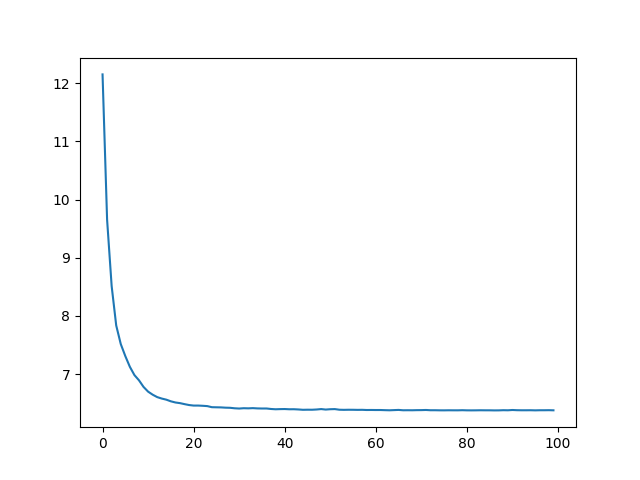
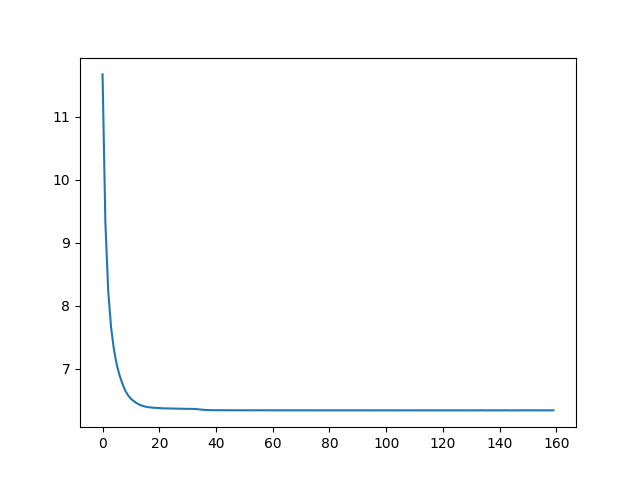
update

diff --git a/AutoEncoder/train.py b/AutoEncoder/train.py
@@ -1,6 +1,7 @@
 from models import Naive_net
 import numpy as np
 import torch as T
+from models import Encoder
 def train(features,
           labels,
           lr:float,
@@ -8,11 +9,13 @@ def train(features,
           fc2_dims:int,
           fc3_dims:int,
           fc4_dims:int,
+          latent_dim:int,
+          encoder_model_path,
           n_epochs : int = 100,
           batch_size : int = 32,
           ):
-    T.cuda.empty_cache()
-    T.backends.cudnn.benchmark = True
+
+
     net = Naive_net(lr=lr,
                     input_shape=features.shape[-1],
                     fc1_dims=fc1_dims,
@@ -21,9 +24,24 @@ def train(features,
                     fc4_dims=fc4_dims,
                     n_output=labels.shape[-1])
 
-    features = T.tensor(features, device=net.device, dtype=T.float32)  # Shape: (968, 1)
+    # features = T.tensor(features, device=net.device, dtype=T.float32)/ # Shape: (968, 1)
     labels = T.tensor(labels, device=net.device, dtype=T.float32)
-    print('Features shape : ', features.shape,)
+    encoder = Encoder(latent_dim=latent_dim)
+    encoder.load_model(encoder_model_path, map_location=T.device('cuda'))
+
+    with T.no_grad():  # Add this to prevent gradient computation for encoder
+        images = T.FloatTensor(features.astype(np.float32) / 255.0)
+        if len(images.shape) == 3:
+            images = images.unsqueeze(1)
+        images = images.to(encoder.device)
+        print(f'images shape in training : {images.shape}')
+
+        # Get encoded features
+        encoded_features = encoder(images)
+        # Detach to prevent backward through encoder
+        encoded_features = encoded_features.detach()
+
+    print('Features shape : ', encoded_features.shape, '\n')
     print('labels shape : ', labels.shape, '\n')
 
     losses = []
@@ -31,7 +49,7 @@ def train(features,
             total_loss = 0
             # Create data loader
 
-            dataset = T.utils.data.TensorDataset(features, labels)
+            dataset = T.utils.data.TensorDataset(encoded_features, labels)
             dataloader = T.utils.data.DataLoader(dataset,
                                                  batch_size=batch_size,
                                                  shuffle=True)

diff --git a/Naive approach/get_features.py b/Naive approach/get_features.py
@@ -4,7 +4,8 @@ from engine import Engine
 from sklearn.model_selection import train_test_split
 
 # LOAD images from folders
-def extract_features(_parts,
+def extract_features(v_parts,
+                     h_parts,
                      _nb_features,
                      _root_folder,
                      _target_folder,
@@ -18,7 +19,8 @@ def extract_features(_parts,
         images, images_dict = load_images_from_folders(root_folder= _root_folder,
                                                        output_folder= _target_folder,
                                                        target_size=_target_size,
-                                                       save_files=_save_file)
+                                                       save_files=_save_file,
+                                                       )
     else:
         images, images_dict = load_images_from_folders2(root_folder= _target_folder,
                                                    )
@@ -29,22 +31,22 @@ def extract_features(_parts,
                     target_size=_target_size)
 
     labels =engine.labeling(images, images_dict)
-
-    splitted_images = engine.split_images(images, _parts)
+    print(f'labels {labels.shape}')
+    splitted_images = engine.split_images(images,v_parts,h_parts)
 
     nb_imgs = 3
     if display:
-        display_images(splitted_images[:nb_imgs*9],rows=len(images[:nb_imgs])*3,cols=_parts)
+        display_images(splitted_images[:nb_imgs*v_parts*h_parts],rows=v_parts*3,cols=h_parts)
 
     hists = engine.compute_hist(splitted_images, nb_features=_nb_features)
-    features = engine.get_features_from_hists(hists, parts=_parts)
+    features = engine.get_features_from_hists(hists,v_parts,h_parts)
 
     normalized_features = normalize_features(features)
 
     X_train, X_test, y_train, y_test = train_test_split(
         normalized_features, labels,
+        random_state=42,
         test_size=0.2,
-         random_state=42,
         shuffle=True
     )
     return X_train, X_test, y_train, y_test

diff --git a/Naive approach/models.py b/Naive approach/models.py
@@ -2,6 +2,7 @@ import torch as T
 import torch.nn as nn
 import torch.nn.functional as F
 import numpy as np
+import os
 def weights_init_(m):
     if isinstance(m, nn.Linear):
         T.nn.init.xavier_uniform_(m.weight, gain=1)
@@ -14,15 +15,16 @@ class Naive_net(nn.Module):
                  fc1_dims,
                  fc2_dims,
                  fc3_dims,
+                 fc4_dims,
                  n_output):
         super(Naive_net, self).__init__()
 
         self.fc1 = nn.Linear(input_shape, fc1_dims)
         self.fc2 = nn.Linear(fc1_dims, fc2_dims)
         self.fc3 = nn.Linear(fc2_dims, fc2_dims)
-        self.fc4 = nn.Linear(fc2_dims, fc2_dims)
-        self.fc5 = nn.Linear(fc2_dims, fc3_dims)
-        self.fc6 = nn.Linear(fc3_dims, n_output)
+        self.fc4 = nn.Linear(fc2_dims, fc3_dims)
+        self.fc5 = nn.Linear(fc3_dims, fc4_dims)
+        self.fc6 = nn.Linear(fc4_dims, n_output)
 
         self.dropout1 = nn.Dropout(0.2)
         self.dropout2 = nn.Dropout(0.2)
@@ -48,10 +50,10 @@ class Naive_net(nn.Module):
 
         x = F.relu(self.fc1(x))
         x = F.relu(self.fc2(x))
-        x = self.dropout1(x)
-        x = F.relu(self.fc3(x))
+        # x = self.dropout1(x)
+        # x = F.relu(self.fc3(x))
         x = F.relu(self.fc4(x))
-        x = self.dropout2(x)
+        # x = self.dropout2(x)
         x = F.relu(self.fc5(x))
         x = F.softmax(self.fc6(x), dim=-1)
 
@@ -63,4 +65,13 @@ class Naive_net(nn.Module):
     def get_lr(self):
         return self.scheduler.get_last_lr()[0]
 
+    def save_model(self, PATH):
+        os.makedirs(os.path.dirname(PATH), exist_ok=True)
+
+        T.save(self.state_dict(), PATH)
+
+    def load_model(self, PATH, map_location=None):
+        if map_location is None:
+            map_location = self.device  # Use the model's current device
+        self.load_state_dict(T.load(PATH, map_location=map_location, weights_only=True))
 

diff --git a/AutoEncoder/utils.py b/AutoEncoder/utils.py
@@ -1,5 +1,6 @@
 import os
 import numpy as np
+import pandas as pd
 from PIL import Image
 import matplotlib.pyplot as plt
 from sklearn.preprocessing import StandardScaler
@@ -17,7 +18,7 @@ def load_images_from_folder(folder_path):
             except IOError:
                 print(f"Error loading image: {filename}")
     return images
-def load_images_from_folders(root_folder,
+def load_images_resize(root_folder,
                              output_folder,
                              save_files= False,
                              target_size=(128, 128)):
@@ -57,13 +58,13 @@ def load_images_from_folders(root_folder,
 
     return images, images_dict
 
-def load_images_from_folders2(root_folder,
+def load_images(target_folder,
 
                              ):
     images = []
     images_dict = {}
-    print(f'Loading from folders ... {root_folder}')
-    for root, dirs, files in os.walk(root_folder):
+    print(f'Loading from folders ... {target_folder}')
+    for root, dirs, files in os.walk(target_folder):
         label = os.path.basename(root)
         if label and label not in images_dict:  # Only add non-empty labels
             print(f'Procesing {label}')
@@ -129,3 +130,18 @@ def normalize_features(features):
     normalizer = StandardScaler()
     normalized_features = normalizer.fit_transform(features)
     return normalized_features
+
+def labeling(images, images_dict):
+    # LABELING
+    labels = np.zeros(len(images))
+    idx = 0
+    print('Labeling ....')
+    for y, key in enumerate(images_dict.keys()):
+
+        print(f'key : {key} : {len(images_dict[key])}')
+
+        labels[idx:idx + len(images_dict[key])] = y
+        idx += len(images_dict[key])
+
+    labels = np.array(pd.get_dummies(labels,dtype=np.uint8))
+    return labels

diff --git a/Naive approach/engine.py b/Naive approach/engine.py
@@ -11,26 +11,26 @@ class Engine():
         self.output_folder = output_folder
         self.target_size = target_size
 
-    def split_image(self, image, parts=2):
+    def split_image(self, image, v_parts, h_parts):
         images = []
         # Get height and width of the image
         height, width = image.shape
         # Compute new_height and new_width
-        new_height, new_width = height // parts, width // parts
+        new_height, new_width = height // v_parts, width // h_parts
 
         # Splitting image to (parts*parts) parts
         # Square splitting
-        for i in range(parts):
-            for j in range(parts):
+        for i in range(v_parts):
+            for j in range(h_parts):
                 img = image[i * new_height:(i + 1) * new_height, j * new_width:(j + 1) * new_width]
                 images.append(img)
         return images
 
-    def split_images(self, images, parts=2):
+    def split_images(self, images, v_parts, h_parts):
         splitted_images = []
         for img in images:
 
-            splitted_images.extend(self.split_image(img, parts=parts))
+            splitted_images.extend(self.split_image(img, v_parts, h_parts))
 
         return splitted_images
 
@@ -43,10 +43,10 @@ class Engine():
 
         return hists
 
-    def get_features_from_hists(self, hists, parts=2):
+    def get_features_from_hists(self, hists, v_parts, h_parts):
         return np.stack([
-            np.concatenate([hist[0][1:] for hist in hists[i:i + parts*parts]])
-            for i in range(0, len(hists), parts*parts)
+            np.concatenate([hist[0][1:] for hist in hists[i:i + v_parts*h_parts]])
+            for i in range(0, len(hists),  v_parts*h_parts)
         ])
 
     def labeling(self,images, images_dict):

diff --git a/Naive approach/main.py b/Naive approach/main.py
@@ -6,16 +6,17 @@ import json
 with (open('params.json', 'r') as f):
     params = json.load(f)["parameters"]
 
-    PARTS,_nb_features, ROOT_FOLDER, TARGET_FOLDER,\
+    _v_parts,_h_parts,_nb_features, ROOT_FOLDER, TARGET_FOLDER,\
      _load_and_resize,_display,  TARGET_SIZE, SAVE_FILE, \
-    _lr, _fc1_dims, _fc2_dims, _fc3_dims, _epochs, _batch_size\
+    _lr, _fc1_dims, _fc2_dims, _fc3_dims,_fc4_dims, _epochs, _batch_size\
     =(params[key] for key in
      list(params.keys())
      )
 
 
 if __name__ == '__main__':
-    X_train, X_test, y_train, y_test = extract_features(_parts=PARTS,
+    X_train, X_test, y_train, y_test = extract_features(v_parts=_v_parts,
+                                                        h_parts=_h_parts,
                                         _nb_features=_nb_features,
                                         _root_folder=ROOT_FOLDER,
                                         _target_folder=TARGET_FOLDER,
@@ -36,8 +37,10 @@ if __name__ == '__main__':
           fc1_dims=_fc1_dims,
           fc2_dims=_fc2_dims,
           fc3_dims=_fc3_dims,
+          fc4_dims=_fc4_dims,
           n_epochs=_epochs,
           batch_size=_batch_size)
 
     print(f'\n-------TEST------\nfeatures : {X_test.shape}\nlabels : {y_test.shape}')
+
     accuracy = evaluate_model(trained_net, X_test, y_test, train_loss)

diff --git a/AutoEncoder/get_data.py b/AutoEncoder/get_data.py
@@ -1,0 +1,29 @@
+from utils import *
+from sklearn.model_selection import train_test_split
+def get_data(
+                     root_folder,
+                     target_folder,
+                     target_size,
+                     save_file,
+                     load_and_resize=True,
+                     ):
+    if load_and_resize:
+        print('load and resize')
+        images, images_dict = load_images_resize(root_folder=root_folder,
+                                                 output_folder=target_folder,
+                                                 target_size=target_size,
+                                                 save_files=save_file,)
+    else:
+        images, images_dict = load_images(target_folder=target_folder,
+                                          )
+
+    labels = labeling(images, images_dict)
+    print('labels : ', labels.shape)
+
+    train_images, test_images, y_train, y_test = train_test_split(
+        images, labels,
+        test_size=0.2,  # 20% for testing
+        shuffle=True  # Ensure the data is shuffled
+    )
+
+    return train_images, test_images, y_train, y_test

diff --git a/AutoEncoder/test_AE.py b/AutoEncoder/test_AE.py
@@ -1,0 +1,24 @@
+from AutoEncoder.models import Encoder
+from models import AutoEncoder
+import numpy as np
+import torch as T
+import torch.nn as nn
+def test_AE(data,
+         latent_dim,
+         encoder_model_path,
+         full_model_path,
+         ):
+    encoder = Encoder(latent_dim=latent_dim)
+
+    encoder.load_model(encoder_model_path,map_location=T.device('cuda'))
+
+    images = T.FloatTensor(data.astype(np.float32) / 255.0)
+
+    # Add channel dimension if not present
+    if len(images.shape) == 3:
+        images = images.unsqueeze(1)  # Add channel dimension (B, 1, H, W)
+
+    images = images.to(encoder.device)
+    print(f'images shape in testing : {images.shape}')
+    outputs = encoder(images)
+    print(f'latent dim shape : {outputs.shape}')

diff --git a/Naive approach/test.py b/Naive approach/test.py
@@ -4,6 +4,7 @@ from sklearn.metrics import confusion_matrix, f1_score, accuracy_score, roc_auc_
 import matplotlib.pyplot as plt
 import seaborn as sns
 from typing import Tuple
+from models import Naive_net
 
 def evaluate_model(net,
                    features: np.ndarray,
